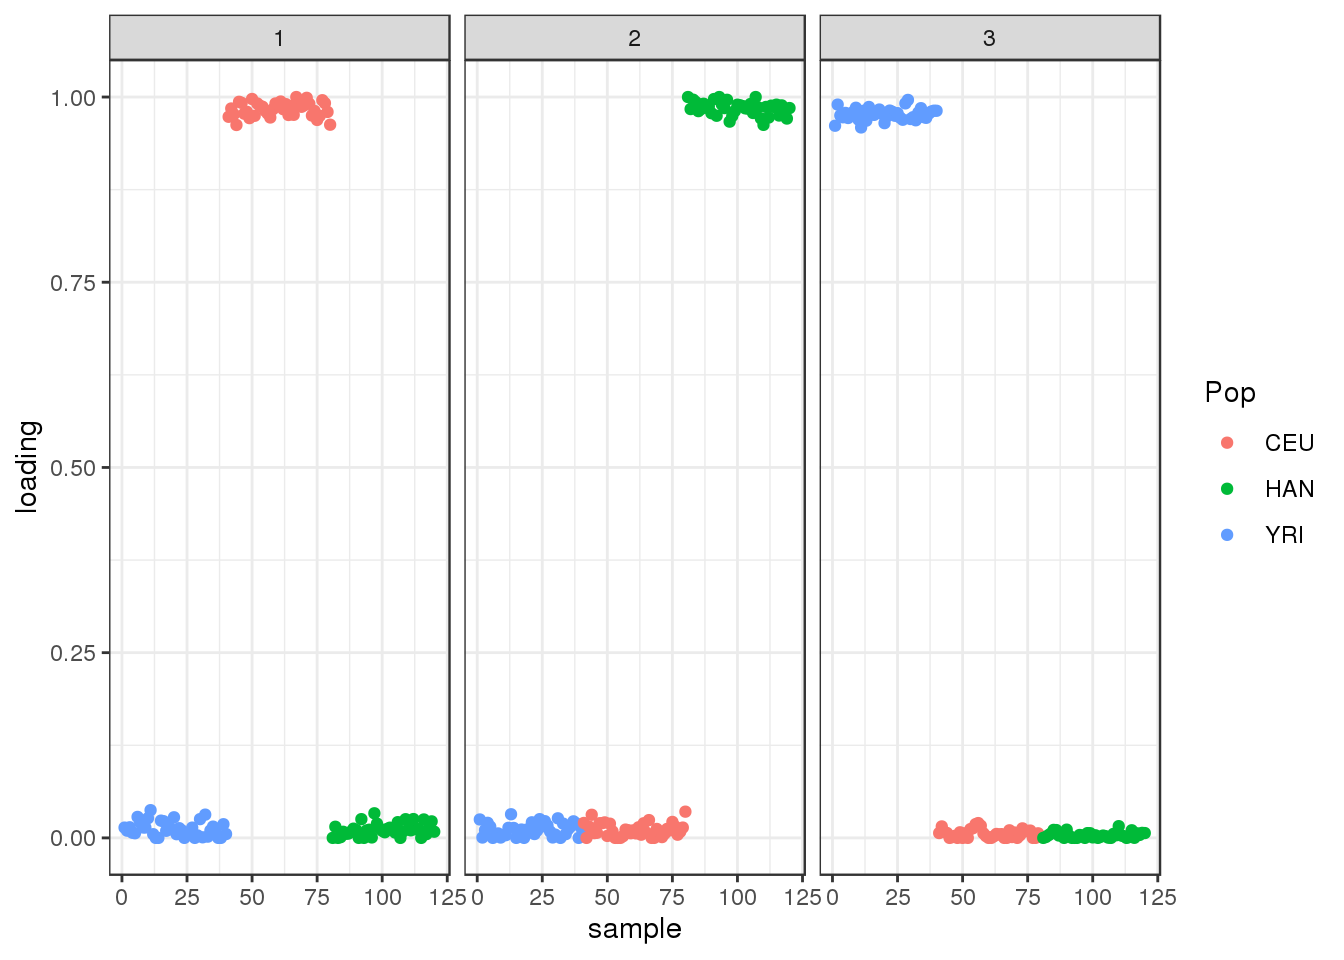
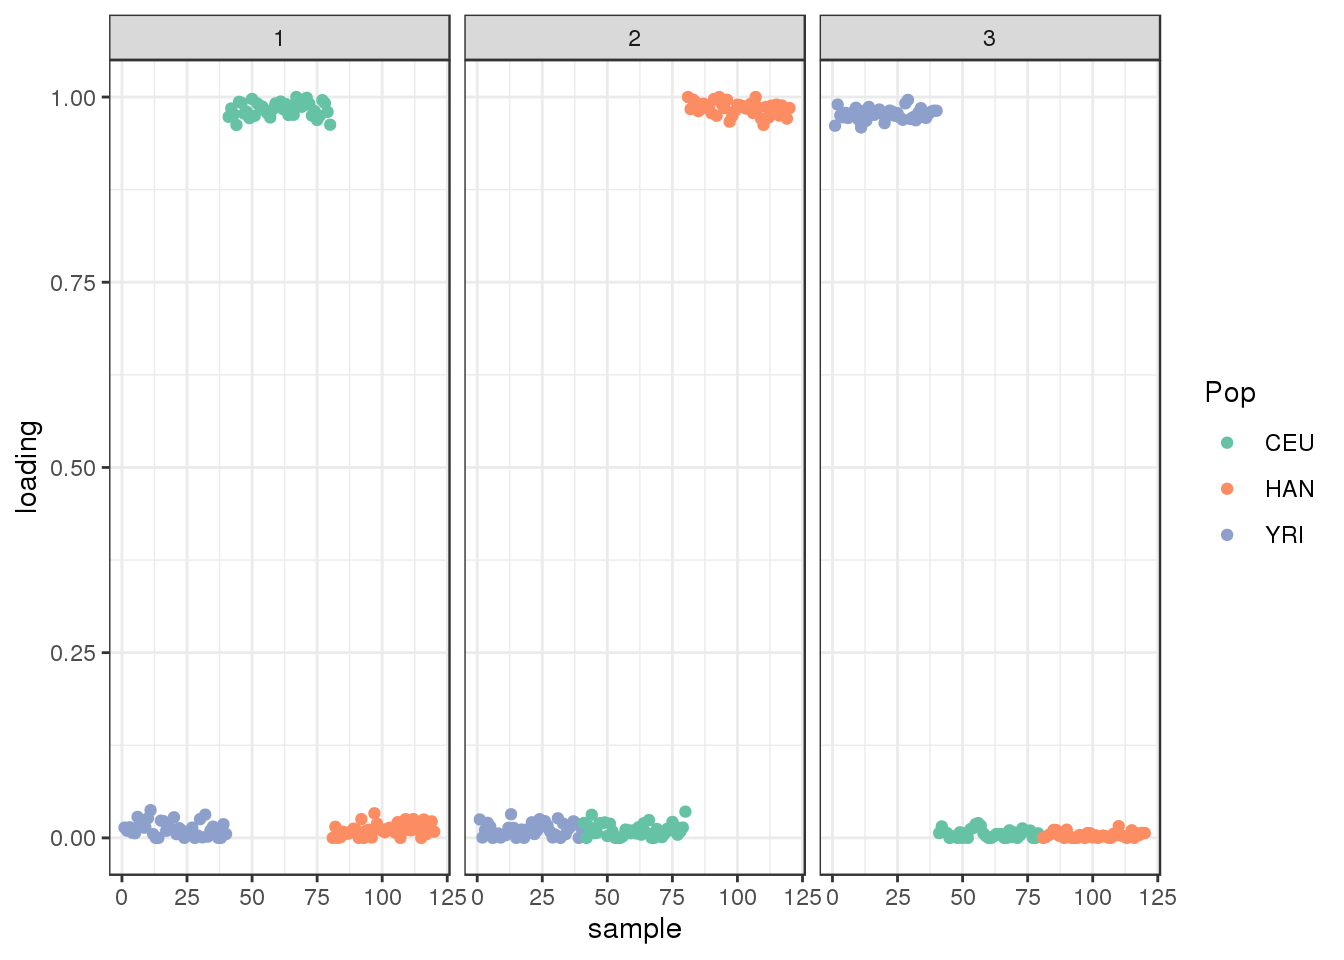
Build site.

diff --git a/docs/OutOfAfrica_3G09.html b/docs/OutOfAfrica_3G09.html
@@ -361,7 +361,7 @@ div.tocify {
 <div class="tab-content">
 <div id="summary" class="tab-pane fade in active">
 <p>
-<strong>Last updated:</strong> 2020-05-13
+<strong>Last updated:</strong> 2020-05-14
 </p>
 <p>
 <strong>Checks:</strong> <span class="glyphicon glyphicon-ok text-success" aria-hidden="true"></span> 7 <span class="glyphicon glyphicon-exclamation-sign text-danger" aria-hidden="true"></span> 0
@@ -452,16 +452,16 @@ This reproducible <a href="http://rmarkdown.rstudio.com">R Markdown</a> analysis
 <div class="panel panel-default">
 <div class="panel-heading">
 <p class="panel-title">
-<a data-toggle="collapse" data-parent="#workflowr-checks" href="#strongRepositoryversionstrongahrefhttpsgithubcomjhmarcusdriftworkflowtree8255772ffcfed82aa45c956098c07ce6df34e5cftargetblank8255772a"> <span class="glyphicon glyphicon-ok text-success" aria-hidden="true"></span> <strong>Repository version:</strong> <a href="https://github.com/jhmarcus/drift-workflow/tree/8255772ffcfed82aa45c956098c07ce6df34e5cf" target="_blank">8255772</a> </a>
+<a data-toggle="collapse" data-parent="#workflowr-checks" href="#strongRepositoryversionstrongahrefhttpsgithubcomjhmarcusdriftworkflowtreefc61e8b9470ef91d8483150a8f6b33c3c833f257targetblankfc61e8ba"> <span class="glyphicon glyphicon-ok text-success" aria-hidden="true"></span> <strong>Repository version:</strong> <a href="https://github.com/jhmarcus/drift-workflow/tree/fc61e8b9470ef91d8483150a8f6b33c3c833f257" target="_blank">fc61e8b</a> </a>
 </p>
 </div>
[2 lines of base64/hex data omitted]
 <div class="panel-body">
 <p>
 Great! You are using Git for version control. Tracking code development and connecting the code version to the results is critical for reproducibility.
 </p>
 <p>
-The results in this page were generated with repository version <a href="https://github.com/jhmarcus/drift-workflow/tree/8255772ffcfed82aa45c956098c07ce6df34e5cf" target="_blank">8255772</a>. See the <em>Past versions</em> tab to see a history of the changes made to the R Markdown and HTML files.
+The results in this page were generated with repository version <a href="https://github.com/jhmarcus/drift-workflow/tree/fc61e8b9470ef91d8483150a8f6b33c3c833f257" target="_blank">fc61e8b</a>. See the <em>Past versions</em> tab to see a history of the changes made to the R Markdown and HTML files.
 </p>
 <p>
 Note that you need to be careful to ensure that all relevant files for the analysis have been committed to Git prior to generating the results (you can use <code>wflow_publish</code> or <code>wflow_git_commit</code>). workflowr only checks the R Markdown file, but you know if there are other scripts or data files that it depends on. Below is the status of the Git repository when the results were generated:
@@ -472,15 +472,14 @@ Ignored files:
     Ignored:    data/datasets/
     Ignored:    data/raw/
     Ignored:    data/simulations/
-    Ignored:    nb-log-1272639.err
-    Ignored:    nb-log-1272639.out
+    Ignored:    nb-log-1324132.err
+    Ignored:    nb-log-1324132.out
     Ignored:    notebooks/.ipynb_checkpoints/
     Ignored:    output/
     Ignored:    sandbox/.ipynb_checkpoints/
 
 Unstaged changes:
-    Modified:   analysis/AmericanAdmixture_4B11.Rmd
-    Deleted:    test.png
+    Modified:   code/structure_plot.R
 
 </code></pre>
 <p>
@@ -519,6 +518,57 @@ Message
 </tr>
 </thead>
 <tbody>
+<tr>
+<td>
+Rmd
+</td>
+<td>
+<a href="https://github.com/jhmarcus/drift-workflow/blob/fc61e8b9470ef91d8483150a8f6b33c3c833f257/analysis/OutOfAfrica_3G09.Rmd" target="_blank">fc61e8b</a>
+</td>
+<td>
+Joseph Marcus
+</td>
+<td>
+2020-05-14
+</td>
+<td>
+wflow_publish(“OutOfAfrica_3G09.Rmd”)
+</td>
+</tr>
+<tr>
+<td>
+Rmd
+</td>
+<td>
+<a href="https://github.com/jhmarcus/drift-workflow/blob/6d0bba100cddcc94c202819855d68ecf4720ead3/analysis/OutOfAfrica_3G09.Rmd" target="_blank">6d0bba1</a>
+</td>
+<td>
+Joseph Marcus
+</td>
+<td>
+2020-05-13
+</td>
+<td>
+added 2 pop OOA sim
+</td>
+</tr>
+<tr>
+<td>
+html
+</td>
+<td>
+<a href="https://rawcdn.githack.com/jhmarcus/drift-workflow/644c6050be046dcdf4459206b6b2dfe0cdfa5710/docs/OutOfAfrica_3G09.html" target="_blank">644c605</a>
+</td>
+<td>
+Joseph Marcus
+</td>
+<td>
+2020-05-13
+</td>
+<td>
+Build site.
+</td>
+</tr>
 <tr>
 <td>
 Rmd
@@ -722,9 +772,11 @@ switched from rpy2 to using Rscripts in snkmk
   library(flashier)
   library(drift.alpha)
   library(ggplot2)
+  library(RColorBrewer)
   library(reshape2)
   library(tidyverse)
   library(alstructure)
+  source(&quot;../code/structure_plot.R&quot;)
 })</code></pre>
 </div>
 <div id="data" class="section level1">
@@ -733,6 +785,7 @@ switched from rpy2 to using Rscripts in snkmk
 Y &lt;- t(as.matrix(read.table(data_path, sep=&quot; &quot;)))
 n &lt;- nrow(Y)
 maf &lt;- colSums(Y) / (2 * n)
+colors &lt;- brewer.pal(8, &quot;Set2&quot;)
 
 # filter out too rare and too common SNPs
 Y &lt;- Y[,((maf&gt;=.05) &amp; (maf &lt;=.95))]
@@ -751,7 +804,7 @@ labs &lt;- rep(c(&quot;YRI&quot;, &quot;CEU&quot;, &quot;HAN&quot;), each=40)</c
 <p>Lets run <code>PCA</code> on the centered and scaled genotype matrix:</p>
 <pre class="r"><code>svd_res &lt;- lfa:::trunc.svd(Z, 5)
 L_hat &lt;- svd_res$u
-plot_loadings(L_hat, labs)</code></pre>
+plot_loadings(L_hat, labs) +  scale_color_brewer(palette=&quot;Set2&quot;)</code></pre>
 <p><img src="figure/OutOfAfrica_3G09.Rmd/unnamed-chunk-3-1.png" width="672" style="display: block; margin: auto;" /></p>
 <p>
 <button type="button" class="btn btn-default btn-xs btn-workflowr btn-workflowr-fig" data-toggle="collapse" data-target="#fig-unnamed-chunk-3-1">
@@ -790,10 +843,11 @@ Joseph Marcus
 </table>
 </div>
 </div>
-<p>Plot the first two factors against each other:</p>
+<p>plot the first two factors against each other:</p>
 <pre class="r"><code>qplot(L_hat[,1], L_hat[,2], color=labs) + 
   xlab(&quot;PC1&quot;) + 
   ylab(&quot;PC2&quot;) + 
+  scale_color_brewer(palette=&quot;Set2&quot;) +
   theme_bw()</code></pre>
 <p><img src="figure/OutOfAfrica_3G09.Rmd/unnamed-chunk-4-1.png" width="672" style="display: block; margin: auto;" /></p>
 <p>
@@ -840,7 +894,7 @@ Joseph Marcus
 <p>Run <code>ALStructure</code> with <span class="math inline">\(K=3\)</span>:</p>
 <pre class="r"><code>admix_res &lt;- alstructure::alstructure(t(Y), d_hat=3)
 Qhat &lt;- t(admix_res$Q_hat)
-plot_loadings(Qhat, labs)</code></pre>
+plot_loadings(Qhat, labs) + scale_color_brewer(palette=&quot;Set2&quot;)</code></pre>
 <p><img src="figure/OutOfAfrica_3G09.Rmd/unnamed-chunk-5-1.png" width="672" style="display: block; margin: auto;" /></p>
 <p>
 <button type="button" class="btn btn-default btn-xs btn-workflowr btn-workflowr-fig" data-toggle="collapse" data-target="#fig-unnamed-chunk-5-1">
@@ -879,25 +933,10 @@ Joseph Marcus
 </table>
 </div>
 </div>
-<p>the PSD model assigns three distinct clusters.</p>
-</div>
-<div id="flash-greedy" class="section level1">
-<h1>flash [greedy]</h1>
-<p>Run the greedy algorithm:</p>
-<pre class="r"><code>fl &lt;- flash(Y, 
-            greedy.Kmax=5, 
-            prior.family=c(prior.bimodal(), prior.normal()))</code></pre>
-<pre><code>Adding factor 1 to flash object...
-Adding factor 2 to flash object...
-Adding factor 3 to flash object...
-Adding factor 4 to flash object...
-Adding factor 5 to flash object...
-Factor doesn&#39;t significantly increase objective and won&#39;t be added.
-Wrapping up...
-Done.
-Nullchecking 4 factors...
-Done.</code></pre>
-<pre class="r"><code>plot_loadings(fl$flash.fit$EF[[1]], labs)</code></pre>
+<p>view structure plot:</p>
+<pre class="r"><code>create_structure_plot(L=Qhat, labels=labs, colors=colors, ymax=1.01)</code></pre>
+<pre><code>Scale for &#39;y&#39; is already present. Adding another scale for &#39;y&#39;, which
+will replace the existing scale.</code></pre>
 <p><img src="figure/OutOfAfrica_3G09.Rmd/unnamed-chunk-6-1.png" width="672" style="display: block; margin: auto;" /></p>
 <p>
 <button type="button" class="btn btn-default btn-xs btn-workflowr btn-workflowr-fig" data-toggle="collapse" data-target="#fig-unnamed-chunk-6-1">
@@ -936,25 +975,25 @@ Joseph Marcus
 </table>
 </div>
 </div>
-<p>flash learns a shared factor between all the populations but where YRI has a lower loading then CEU and HAN and then it also learns population specific factors.</p>
+<p>the PSD model assigns three distinct clusters.</p>
 </div>
-<div id="flash-backfit" class="section level1">
-<h1>flash [backfit]</h1>
-<p>Run flash [backfit] initializing from the greedy solution:</p>
-<pre class="r"><code>flbf &lt;- fl %&gt;% 
-  flash.backfit() %&gt;% 
-  flash.nullcheck(remove=TRUE)</code></pre>
-<pre><code>Backfitting 4 factors (tolerance: 5.33e-02)...
-  Difference between iterations is within 1.0e+02...
-  Difference between iterations is within 1.0e+01...
-  Difference between iterations is within 1.0e+00...
-  Difference between iterations is within 1.0e-01...
+<div id="flash-greedy" class="section level1">
+<h1>flash [greedy]</h1>
+<p>Run the greedy algorithm:</p>
+<pre class="r"><code>fl &lt;- flash(Y, 
+            greedy.Kmax=5, 
+            prior.family=c(prior.bimodal(), prior.normal()))</code></pre>
+<pre><code>Adding factor 1 to flash object...
+Adding factor 2 to flash object...
+Adding factor 3 to flash object...
+Adding factor 4 to flash object...
+Adding factor 5 to flash object...
+Factor doesn&#39;t significantly increase objective and won&#39;t be added.
 Wrapping up...
 Done.
 Nullchecking 4 factors...
-Wrapping up...
 Done.</code></pre>
-<pre class="r"><code>plot_loadings(flbf$flash.fit$EF[[1]], labs)</code></pre>
+<pre class="r"><code>plot_loadings(fl$flash.fit$EF[[1]], labs) + scale_color_brewer(palette=&quot;Set2&quot;)</code></pre>
 <p><img src="figure/OutOfAfrica_3G09.Rmd/unnamed-chunk-7-1.png" width="672" style="display: block; margin: auto;" /></p>
 <p>
 <button type="button" class="btn btn-default btn-xs btn-workflowr btn-workflowr-fig" data-toggle="collapse" data-target="#fig-unnamed-chunk-7-1">
@@ -1004,6 +1043,69 @@ Joseph Marcus
 </table>
 </div>
 </div>
+<p>view structure plot:</p>
+<pre class="r"><code>create_structure_plot(L=fl$flash.fit$EF[[1]], labels=labs, colors=colors)</code></pre>
+<p><img src="figure/OutOfAfrica_3G09.Rmd/unnamed-chunk-8-1.png" width="672" style="display: block; margin: auto;" /></p>
+<p>
+<button type="button" class="btn btn-default btn-xs btn-workflowr btn-workflowr-fig" data-toggle="collapse" data-target="#fig-unnamed-chunk-8-1">
+Past versions of unnamed-chunk-8-1.png
+</button>
+</p>
+<div id="fig-unnamed-chunk-8-1" class="collapse">
+<div class="table-responsive">
+<table class="table table-condensed table-hover">
+<thead>
+<tr>
+<th>
+Version
+</th>
+<th>
+Author
+</th>
+<th>
+Date
+</th>
+</tr>
+</thead>
+<tbody>
+<tr>
+<td>
+<a href="https://github.com/jhmarcus/drift-workflow/blob/da3995d7fae4d664ba8a92587bcf2f03be90af54/docs/figure/OutOfAfrica_3G09.Rmd/unnamed-chunk-8-1.png" target="_blank">da3995d</a>
+</td>
+<td>
+Joseph Marcus
+</td>
+<td>
+2020-05-12
+</td>
+</tr>
+</tbody>
+</table>
+</div>
+</div>
+<p>flash learns a shared factor between all the populations but where YRI has a lower loading then CEU and HAN and then it also learns population specific factors.</p>
+</div>
+<div id="flash-backfit" class="section level1">
+<h1>flash [backfit]</h1>
+<p>Run flash [backfit] initializing from the greedy solution:</p>
+<pre class="r"><code>flbf &lt;- fl %&gt;% 
+  flash.backfit() %&gt;% 
+  flash.nullcheck(remove=TRUE)</code></pre>
+<pre><code>Backfitting 4 factors (tolerance: 5.33e-02)...
+  Difference between iterations is within 1.0e+02...
+  Difference between iterations is within 1.0e+01...
+  Difference between iterations is within 1.0e+00...
+  Difference between iterations is within 1.0e-01...
+Wrapping up...
+Done.
+Nullchecking 4 factors...
+Wrapping up...
+Done.</code></pre>
+<pre class="r"><code>plot_loadings(flbf$flash.fit$EF[[1]], labs) + scale_color_brewer(palette=&quot;Set2&quot;)</code></pre>
+<p><img src="figure/OutOfAfrica_3G09.Rmd/unnamed-chunk-9-1.png" width="672" style="display: block; margin: auto;" /></p>
+<p>view structure plot:</p>
+<pre class="r"><code>create_structure_plot(L=flbf$flash.fit$EF[[1]], labels=labs, colors=colors)</code></pre>
+<p><img src="figure/OutOfAfrica_3G09.Rmd/unnamed-chunk-10-1.png" width="672" style="display: block; margin: auto;" /></p>
 <p>the backfitting algorithm represents the data with a sparser solution.</p>
 </div>
 <div id="drift" class="section level1">
@@ -1049,46 +1151,12 @@ dr &lt;- drift(init, miniter=2, maxiter=500, tol=0.01, verbose=TRUE)</code></pre
   36 :    -2864516.546 
   37 :    -2864516.534 
   38 :    -2864516.525 </code></pre>
-<pre class="r"><code>plot_loadings(dr$EL, labs)</code></pre>
-<p><img src="figure/OutOfAfrica_3G09.Rmd/unnamed-chunk-8-1.png" width="672" style="display: block; margin: auto;" /></p>
-<p>
-<button type="button" class="btn btn-default btn-xs btn-workflowr btn-workflowr-fig" data-toggle="collapse" data-target="#fig-unnamed-chunk-8-1">
-Past versions of unnamed-chunk-8-1.png
-</button>
-</p>
-<div id="fig-unnamed-chunk-8-1" class="collapse">
-<div class="table-responsive">
-<table class="table table-condensed table-hover">
-<thead>
-<tr>
-<th>
-Version
-</th>
-<th>
-Author
-</th>
-<th>
-Date
-</th>
-</tr>
-</thead>
-<tbody>
-<tr>
-<td>
-<a href="https://github.com/jhmarcus/drift-workflow/blob/da3995d7fae4d664ba8a92587bcf2f03be90af54/docs/figure/OutOfAfrica_3G09.Rmd/unnamed-chunk-8-1.png" target="_blank">da3995d</a>
-</td>
-<td>
-Joseph Marcus
-</td>
-<td>
-2020-05-12
-</td>
-</tr>
-</tbody>
-</table>
-</div>
-</div>
-<p>drift seems to maintain the greedy solution.</p>
+<pre class="r"><code>plot_loadings(dr$EL, labs) + scale_color_brewer(palette=&quot;Set2&quot;)</code></pre>
+<p><img src="figure/OutOfAfrica_3G09.Rmd/unnamed-chunk-11-1.png" width="672" style="display: block; margin: auto;" /></p>
+<p>view structure plot:</p>
+<pre class="r"><code>create_structure_plot(L=dr$EL, labels=labs, colors=colors)</code></pre>
+<p><img src="figure/OutOfAfrica_3G09.Rmd/unnamed-chunk-12-1.png" width="672" style="display: block; margin: auto;" /></p>
+<p><code>drift</code> seems to maintain the greedy solution.</p>
 <br>
 <p>
 <button type="button" class="btn btn-default btn-workflowr btn-workflowr-sessioninfo" data-toggle="collapse" data-target="#workflowr-sessioninfo" style="display: block;">
@@ -1116,11 +1184,11 @@ attached base packages:
 [1] stats     graphics  grDevices utils     datasets  methods   base     
 
 other attached packages:
- [1] alstructure_0.1.0 forcats_0.5.0     stringr_1.4.0    
- [4] dplyr_0.8.5       purrr_0.3.4       readr_1.3.1      
- [7] tidyr_1.0.2       tibble_3.0.1      tidyverse_1.3.0  
-[10] reshape2_1.4.3    ggplot2_3.3.0     drift.alpha_0.0.9
-[13] flashier_0.2.4    lfa_1.9.0        
+ [1] alstructure_0.1.0  forcats_0.5.0      stringr_1.4.0     
+ [4] dplyr_0.8.5        purrr_0.3.4        readr_1.3.1       
+ [7] tidyr_1.0.2        tibble_3.0.1       tidyverse_1.3.0   
+[10] reshape2_1.4.3     RColorBrewer_1.1-2 ggplot2_3.3.0     
+[13] drift.alpha_0.0.9  flashier_0.2.4     lfa_1.9.0         
 
 loaded via a namespace (and not attached):
  [1] httr_1.4.1       jsonlite_1.6     modelr_0.1.6     assertthat_0.2.1
@@ -1132,8 +1200,8 @@ loaded via a namespace (and not attached):
 [25] corpcor_1.6.9    scales_1.1.0     whisker_0.3-2    later_0.7.5     
 [29] git2r_0.26.1     farver_2.0.3     generics_0.0.2   ellipsis_0.3.0  
 [33] withr_2.2.0      ashr_2.2-50      cli_2.0.2        magrittr_1.5    
-[37] crayon_1.3.4     readxl_1.3.1     evaluate_0.14    fs_1.3.1        
-[41] fansi_0.4.1      nlme_3.1-137     xml2_1.3.2       truncnorm_1.0-8 
+[37] crayon_1.3.4     readxl_1.3.1     evaluate_0.14    fansi_0.4.1     
+[41] fs_1.3.1         nlme_3.1-137     xml2_1.3.2       truncnorm_1.0-8 
 [45] tools_3.5.1      hms_0.5.3        lifecycle_0.2.0  munsell_0.5.0   
 [49] reprex_0.3.0     irlba_2.3.3      compiler_3.5.1   rlang_0.4.5     
 [53] grid_3.5.1       rstudioapi_0.11  labeling_0.3     rmarkdown_1.10  
